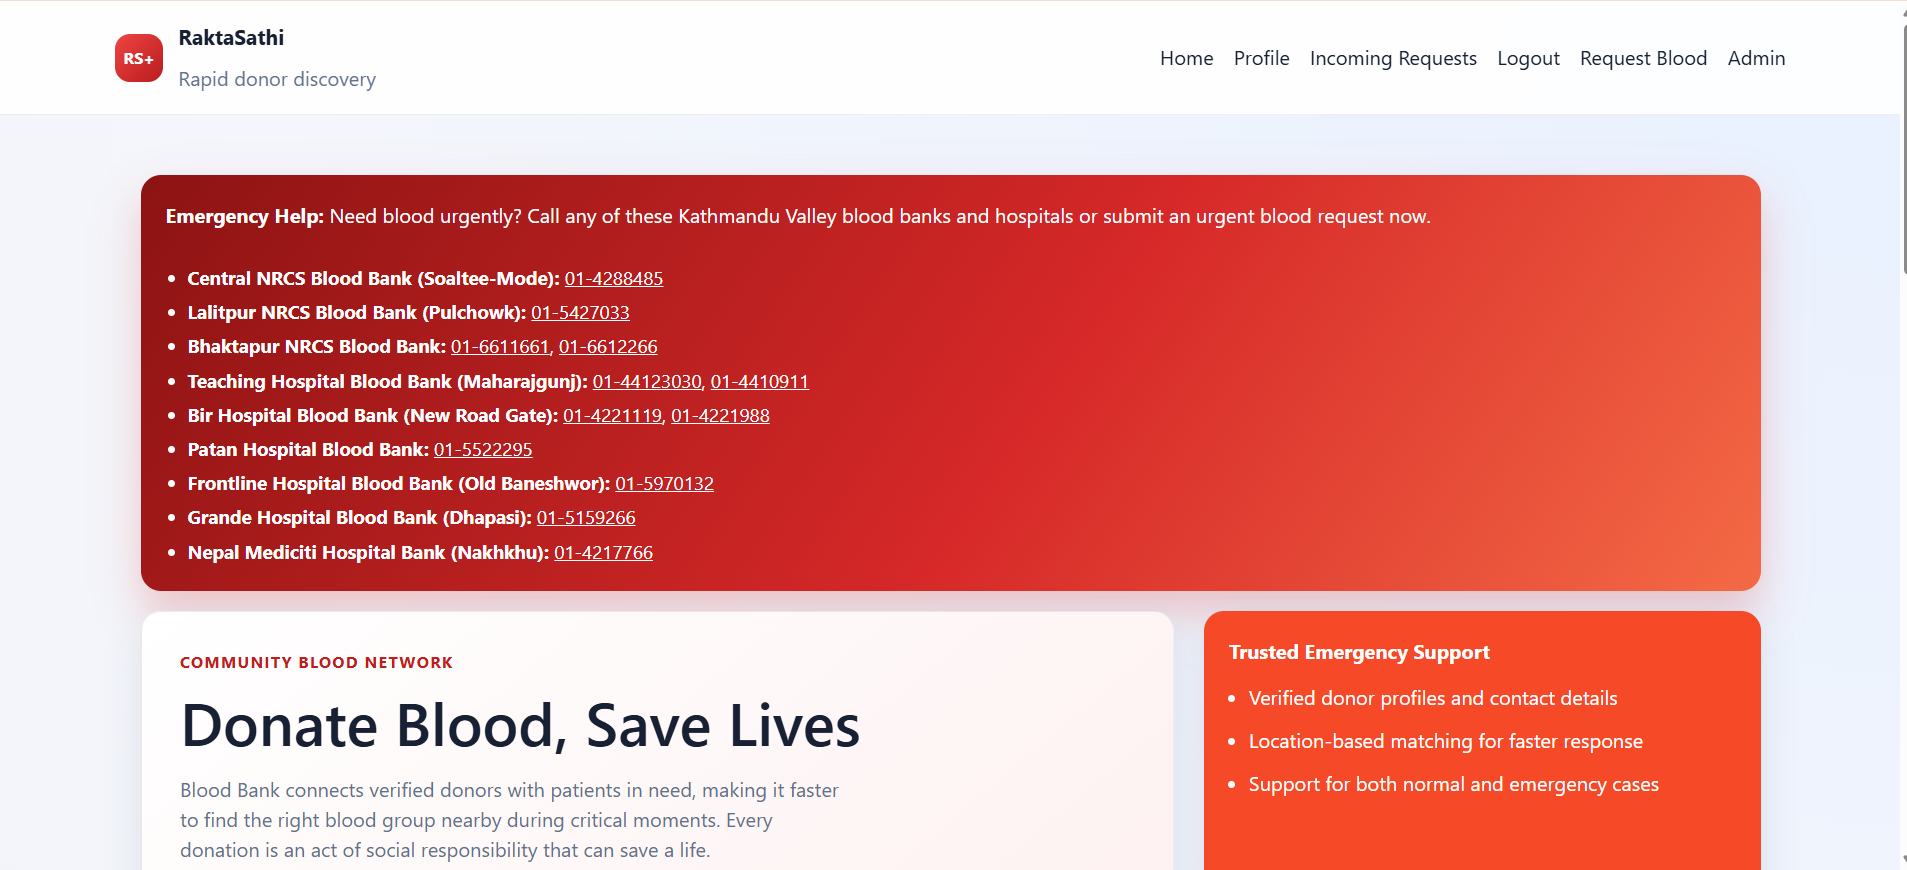
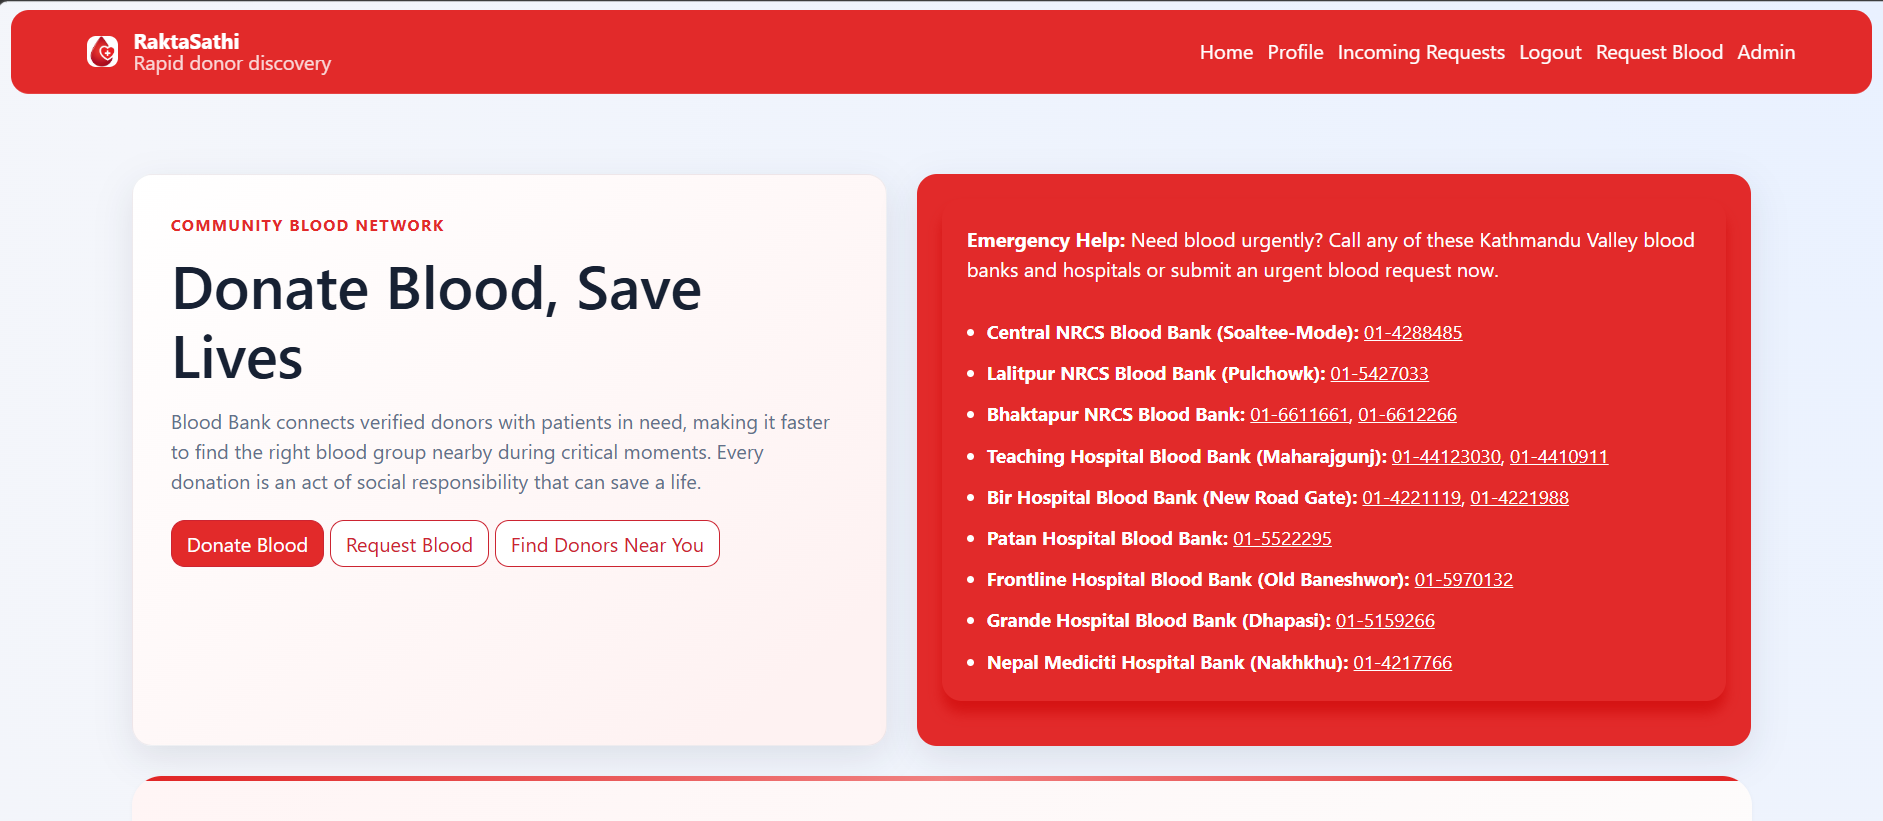
added ssome projects

diff --git a/src/components/Projects.jsx b/src/components/Projects.jsx
@@ -2,6 +2,8 @@ import { ExternalLink } from 'lucide-react';
 import meropasal from '../assets/meropasal.png';
 import raktasathi from '../assets/raktasathi.png';
 import portfolio from '../assets/image.png';
+import exercisetracker from '../assets/exercisetracker.png';
+import quizweb from '../assets/quizweb.png';
 
 function createProjectImage(title) {
   const svg = `
@@ -51,6 +53,22 @@ export default function Projects() {
       tech: ["React", "Node.js", "Express", "Tailwind CSS"],
       github: "https://github.com/sahanhomah/Portfolio.git",
       image: portfolio
+    },
+    {
+      id: 4,
+      title: "Exercise Tracker",
+      description: "A simple exercise tracking application to monitor workouts and progress.",
+      tech: ["Python", "tkinter"],
+      github: "https://github.com/sahanhomah/ExerciseTracking.git",
+      image: exercisetracker
+    },
+    {
+      id: 5,
+      title: "Quiz Web Application", 
+      description: "A web application made to improve my own general knowledge and to help others improve their general knowledge.",
+      tech: ["Python", "Django", "SQLite", "Tailwind CSS"],
+      github: "https://github.com/sahanhomah/QuizApp.git",
+      image: quizweb
     }
 
    
